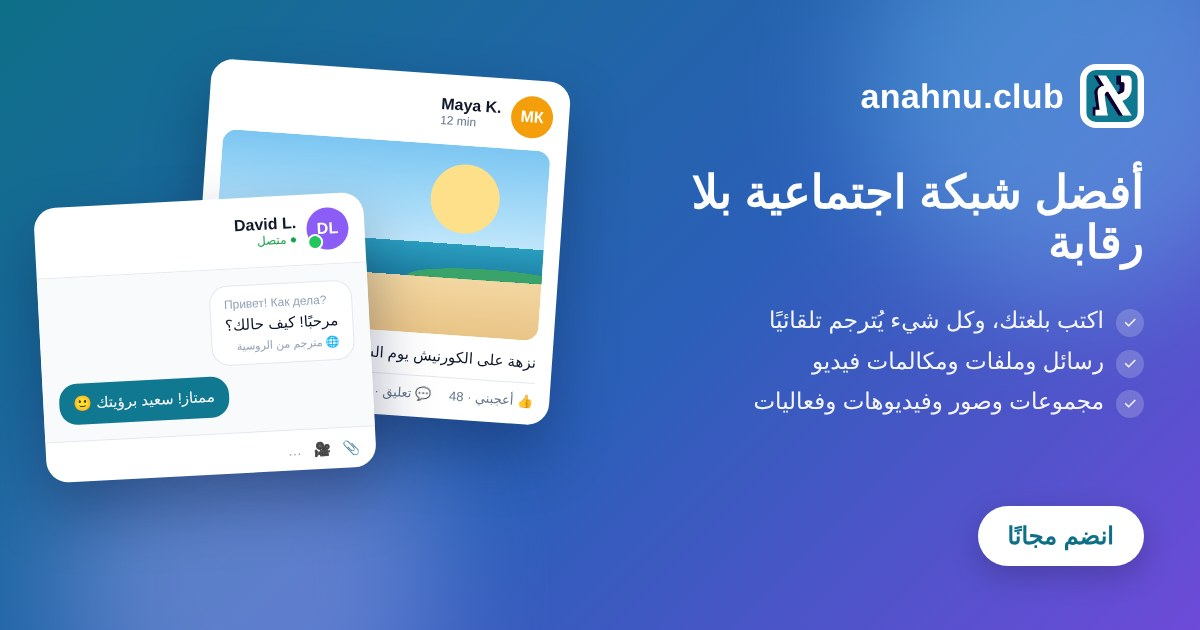
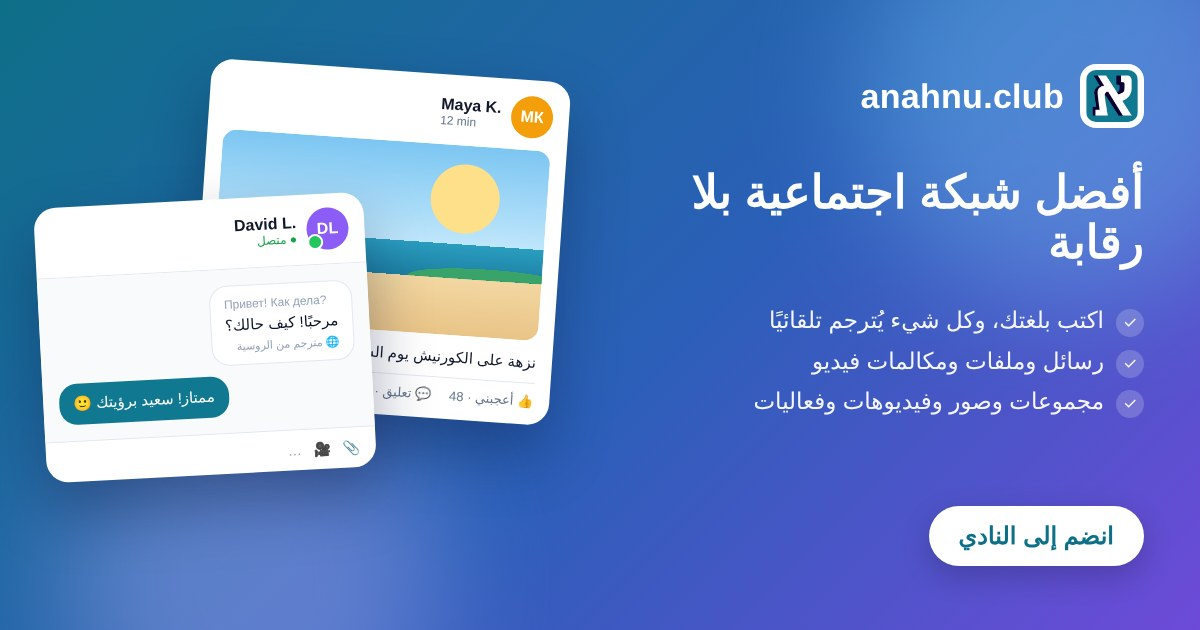
Drop "free" from the interface: the join button says "Join the club"
The guest banner button is "Create an account", and the invitation picture's
button "Join the club" in every built-in language, with the bundled pictures
redrawn. A picture now remembers the texts it was drawn from, so the admin
Languages page draws again any picture whose texts have changed, and a stale
drawing gives way to the site's own up-to-date picture.

Claude-Session: https://claude.ai/code/session_014s1X5oMfqN5J2voBdMJfAd

Changed region(s): [[0.7708, 0.7841, 0.8942, 0.9048]]

diff --git a/resources/js/pages/welcome.tsx b/resources/js/pages/welcome.tsx
@@ -56,7 +56,7 @@ export default function Welcome({ posts, sidebar }: { posts: { data: Post[] }; s
                         href={route('register')}
                         className="bg-cta hover:bg-cta-dark mt-7 inline-flex items-center gap-2 rounded-full px-6 py-3 text-[0.9375rem] font-semibold text-white shadow-lg"
                     >
-                        <UserPlus className="size-4" /> {t('Create an account for free')}
+                        <UserPlus className="size-4" /> {t('Create an account')}
                     </Link>
                 </div>
 

diff --git a/deploy/invite-image/make.py b/deploy/invite-image/make.py
@@ -1,17 +1,17 @@
 import json, base64, sys
 logo = base64.b64encode(open('/root/work/anahnuclub/public/images/logo-mark.png','rb').read()).decode()
 L = {
- 'ru': dict(rtl=False, slogan='Лучшая соцсеть без цензуры', b=['Пишите на своём языке, всё переводится само','Сообщения, файлы и видеозвонки','Группы, фото, видео и события'], cta='Присоединяйтесь бесплатно',
+ 'ru': dict(rtl=False, slogan='Лучшая соцсеть без цензуры', b=['Пишите на своём языке, всё переводится само','Сообщения, файлы и видеозвонки','Группы, фото, видео и события'], cta='Вступайте в клуб',
    inc='שלום! מה שלומך?', tr='Привет! Как дела?', trl='Переведено с иврита', out='Отлично! Рад тебя видеть 🙂', chat='Сообщения', online='в сети', post='Пикник на набережной в субботу, кто с нами?', like='Нравится', com='Комментировать'),
- 'en': dict(rtl=False, slogan='The best social network without censorship', b=['Write in your language, everything is translated','Messages, files and video calls','Groups, photos, videos and events'], cta='Join for free',
+ 'en': dict(rtl=False, slogan='The best social network without censorship', b=['Write in your language, everything is translated','Messages, files and video calls','Groups, photos, videos and events'], cta='Join the club',
    inc='Привет! Как дела?', tr='Hi! How are you?', trl='Translated from Russian', out='Great! Good to see you 🙂', chat='Messages', online='online', post='Picnic on the promenade on Saturday, who is in?', like='Like', com='Comment'),
- 'de': dict(rtl=False, slogan='Das beste soziale Netzwerk ohne Zensur', b=['Schreiben Sie in Ihrer Sprache, alles wird übersetzt','Nachrichten, Dateien und Videoanrufe','Gruppen, Fotos, Videos und Events'], cta='Kostenlos beitreten',
+ 'de': dict(rtl=False, slogan='Das beste soziale Netzwerk ohne Zensur', b=['Schreiben Sie in Ihrer Sprache, alles wird übersetzt','Nachrichten, Dateien und Videoanrufe','Gruppen, Fotos, Videos und Events'], cta='Dem Club beitreten',
    inc='Привет! Как дела?', tr='Hallo! Wie geht es dir?', trl='Aus dem Russischen übersetzt', out='Super! Schön dich zu sehen 🙂', chat='Nachrichten', online='online', post='Picknick an der Promenade am Samstag, wer kommt mit?', like='Gefällt mir', com='Kommentieren'),
- 'he': dict(rtl=True, slogan='הרשת החברתית הטובה ביותר, ללא צנזורה', b=['כתבו בשפה שלכם, הכול מתורגם אוטומטית','הודעות, קבצים ושיחות וידאו','קבוצות, תמונות, סרטונים ואירועים'], cta='הצטרפו בחינם',
+ 'he': dict(rtl=True, slogan='הרשת החברתית הטובה ביותר, ללא צנזורה', b=['כתבו בשפה שלכם, הכול מתורגם אוטומטית','הודעות, קבצים ושיחות וידאו','קבוצות, תמונות, סרטונים ואירועים'], cta='הצטרפו למועדון',
    inc='Привет! Как дела?', tr='שלום! מה שלומך?', trl='תורגם מרוסית', out='מצוין! שמח לראות אותך 🙂', chat='הודעות', online='מחובר', post='פיקניק על הטיילת בשבת, מי מצטרף?', like='אהבתי', com='תגובה'),
- 'ar': dict(rtl=True, slogan='أفضل شبكة اجتماعية بلا رقابة', b=['اكتب بلغتك، وكل شيء يُترجم تلقائيًا','رسائل وملفات ومكالمات فيديو','مجموعات وصور وفيديوهات وفعاليات'], cta='انضم مجانًا',
+ 'ar': dict(rtl=True, slogan='أفضل شبكة اجتماعية بلا رقابة', b=['اكتب بلغتك، وكل شيء يُترجم تلقائيًا','رسائل وملفات ومكالمات فيديو','مجموعات وصور وفيديوهات وفعاليات'], cta='انضم إلى النادي',
    inc='Привет! Как дела?', tr='مرحبًا! كيف حالك؟', trl='مترجم من الروسية', out='ممتاز! سعيد برؤيتك 🙂', chat='الرسائل', online='متصل', post='نزهة على الكورنيش يوم السبت، من سيأتي؟', like='أعجبني', com='تعليق'),
- 'tg': dict(rtl=False, slogan='Беҳтарин шабакаи иҷтимоӣ бе сензура', b=['Бо забони худ нависед, ҳама тарҷума мешавад','Паёмҳо, файлҳо ва зангҳои видеоӣ','Гурӯҳҳо, аксҳо, видеоҳо ва чорабиниҳо'], cta='Ройгон ҳамроҳ шавед',
+ 'tg': dict(rtl=False, slogan='Беҳтарин шабакаи иҷтимоӣ бе сензура', b=['Бо забони худ нависед, ҳама тарҷума мешавад','Паёмҳо, файлҳо ва зангҳои видеоӣ','Гурӯҳҳо, аксҳо, видеоҳо ва чорабиниҳо'], cta='Ба клуб ҳамроҳ шавед',
    inc='Привет! Как дела?', tr='Салом! Корҳо чӣ хел?', trl='Аз забони русӣ тарҷума шуд', out='Олӣ! Аз дидани ту шодам 🙂', chat='Паёмҳо', online='дар шабака', post='Пикник дар соҳил рӯзи шанбе, кӣ бо мо?', like='Писанд', com='Шарҳ'),
 }
 for code, s in L.items():

diff --git a/tests/Feature/InviteImageTest.php b/tests/Feature/InviteImageTest.php
@@ -45,8 +45,8 @@ class InviteImageTest extends TestCase
         $this->actingAs($this->admin)->get('/admin/languages')->assertInertia(fn ($page) => $page
             ->where('languages', fn ($languages) => collect($languages)->firstWhere('code', 'kk')['invite']['has'] === false
                 && collect($languages)->firstWhere('code', 'kk')['invite']['ready'] === false
-                && collect($languages)->firstWhere('code', 'kk')['invite']['texts']['cta'] === 'Join for free'
-                && collect($languages)->firstWhere('code', 'ru')['invite']['texts']['cta'] === 'Присоединяйтесь бесплатно'
+                && collect($languages)->firstWhere('code', 'kk')['invite']['texts']['cta'] === 'Join the club'
+                && collect($languages)->firstWhere('code', 'ru')['invite']['texts']['cta'] === 'Вступайте в клуб'
                 && collect($languages)->firstWhere('code', 'ru')['invite']['ready'] === true));
 
         // Once the interface is translated the picture can be drawn.
@@ -54,7 +54,7 @@ class InviteImageTest extends TestCase
             InterfaceStrings::correct('kk', $key, "kk $key");
         }
         $this->assertTrue(InviteImage::texts('kk')['ready']);
-        $this->assertSame('kk Join for free', InviteImage::texts('kk')['texts']['cta']);
+        $this->assertSame('kk Join the club', InviteImage::texts('kk')['texts']['cta']);
     }
 
     public function test_a_drawn_picture_is_saved_and_shown_on_links_in_that_language()
@@ -78,5 +78,33 @@ class InviteImageTest extends TestCase
         // Deleting the language takes its picture along.
         $this->actingAs($this->admin)->delete('/admin/languages/kk');
         Storage::disk('public')->assertMissing('invite/kk.jpg');
+    }
+
+    public function test_a_picture_drawn_from_older_texts_is_drawn_again()
+    {
+        // The pictures the site comes with match the texts of its built-in languages.
+        foreach (['ru', 'he', 'en', 'ar'] as $code) {
+            $this->assertTrue(InviteImage::current($code), $code);
+        }
+
+        Language::create(['code' => 'kk', 'name' => 'Kazakh', 'native_name' => 'Қазақша', 'rtl' => false, 'enabled' => true, 'sort' => 9]);
+        $this->actingAs($this->admin)->post('/admin/languages/kk/invite-image', ['image' => UploadedFile::fake()->image('kk.jpg', 1200, 630)]);
+        $this->assertTrue(InviteImage::current('kk'));
+
+        // A text on the picture changes: the admin page is told to draw it again.
+        InterfaceStrings::correct('kk', 'Join the club', 'kk new');
+        $this->assertFalse(InviteImage::current('kk'));
+        $this->get('/admin/languages')->assertInertia(fn ($page) => $page
+            ->where('languages', fn ($languages) => collect($languages)->firstWhere('code', 'kk')['invite']['has'] === false));
+
+        // A drawing from older texts gives way to the site's own picture when that one is up to date.
+        Storage::disk('public')->put('invite/ru.jpg', 'old');
+        $this->assertFalse(InviteImage::current('ru'));
+        $this->assertStringContainsString('images/invite/ru.jpg', InviteImage::url('ru'));
+
+        // So does a picture drawn before pictures remembered their texts.
+        $this->post('/admin/languages/kk/invite-image', ['image' => UploadedFile::fake()->image('kk.jpg', 1200, 630)]);
+        Storage::disk('public')->delete('invite/kk.sig');
+        $this->assertFalse(InviteImage::current('kk'));
     }
 }

diff --git a/app/Support/InviteImage.php b/app/Support/InviteImage.php
@@ -24,7 +24,7 @@ class InviteImage
         'b1' => 'Write in your language, everything is translated',
         'b2' => 'Messages, files and video calls',
         'b3' => 'Groups, photos, videos and events',
-        'cta' => 'Join for free',
+        'cta' => 'Join the club',
         'reply' => 'Hi! How are you?',
         'from_ru' => 'Translated from Russian',
         'from_he' => 'Translated from Hebrew',
@@ -72,23 +72,59 @@ class InviteImage
         return self::drawn($code) || is_file(public_path("images/invite/$code.jpg"));
     }
 
-    /** The picture for this language, the English one if it has none; a new drawing gets a new address, so networks fetch it again. */
+    /**
+     * The picture for this language, the English one if it has none; a new drawing gets a new address, so networks fetch it again.
+     * A drawing from older texts gives way to the site's own picture when that one is up to date.
+     */
     public static function url(string $code): string
     {
-        if (self::drawn($code)) {
+        if (self::drawn($code) && (self::current($code) || ! self::bundledCurrent($code))) {
             return Storage::disk('public')->url(self::path($code)).'?v='.Storage::disk('public')->lastModified(self::path($code));
         }
 
         return asset('images/invite/'.(is_file(public_path("images/invite/$code.jpg")) ? $code : 'en').'.jpg');
     }
 
+    /** A fingerprint of the picture's texts in this language, so a picture drawn from older texts is known to be out of date. */
+    public static function signature(string $code): string
+    {
+        return md5(json_encode(self::texts($code)['texts'], JSON_UNESCAPED_UNICODE));
+    }
+
+    /**
+     * Whether the language's picture shows its texts as they are now: a drawn one remembers the texts
+     * it was drawn from, the ones the site came with are listed in public/images/invite/texts.json.
+     * When a text changes (or a picture predates this), the admin Languages page draws it again.
+     */
+    public static function current(string $code): bool
+    {
+        if (self::drawn($code)) {
+            return Storage::disk('public')->get(self::signaturePath($code)) === self::signature($code);
+        }
+
+        return self::bundledCurrent($code);
+    }
+
+    private static function bundledCurrent(string $code): bool
+    {
+        $bundled = json_decode((string) @file_get_contents(public_path('images/invite/texts.json')), true) ?: [];
+
+        return is_file(public_path("images/invite/$code.jpg")) && ($bundled[$code] ?? null) === self::signature($code);
+    }
+
     public static function store(string $code, UploadedFile $file): void
     {
         Storage::disk('public')->putFileAs('invite', $file, "$code.jpg");
+        Storage::disk('public')->put(self::signaturePath($code), self::signature($code));
     }
 
     public static function forget(string $code): void
     {
-        Storage::disk('public')->delete(self::path($code));
+        Storage::disk('public')->delete([self::path($code), self::signaturePath($code)]);
+    }
+
+    private static function signaturePath(string $code): string
+    {
+        return "invite/$code.sig";
     }
 }

diff --git a/app/Http/Controllers/Admin/LanguageController.php b/app/Http/Controllers/Admin/LanguageController.php
@@ -34,7 +34,7 @@ class LanguageController extends AdminController
                     'paused' => Cache::get(TranslateInterface::errorKey($l->code)),
                     // The picture shared invitation links show; the page draws a missing one by itself.
                     'invite' => InviteImage::texts($l->code) + [
-                        'has' => InviteImage::exists($l->code),
+                        'has' => InviteImage::current($l->code),
                         'url' => InviteImage::exists($l->code) ? InviteImage::url($l->code) : null,
                     ],
                 ]),
